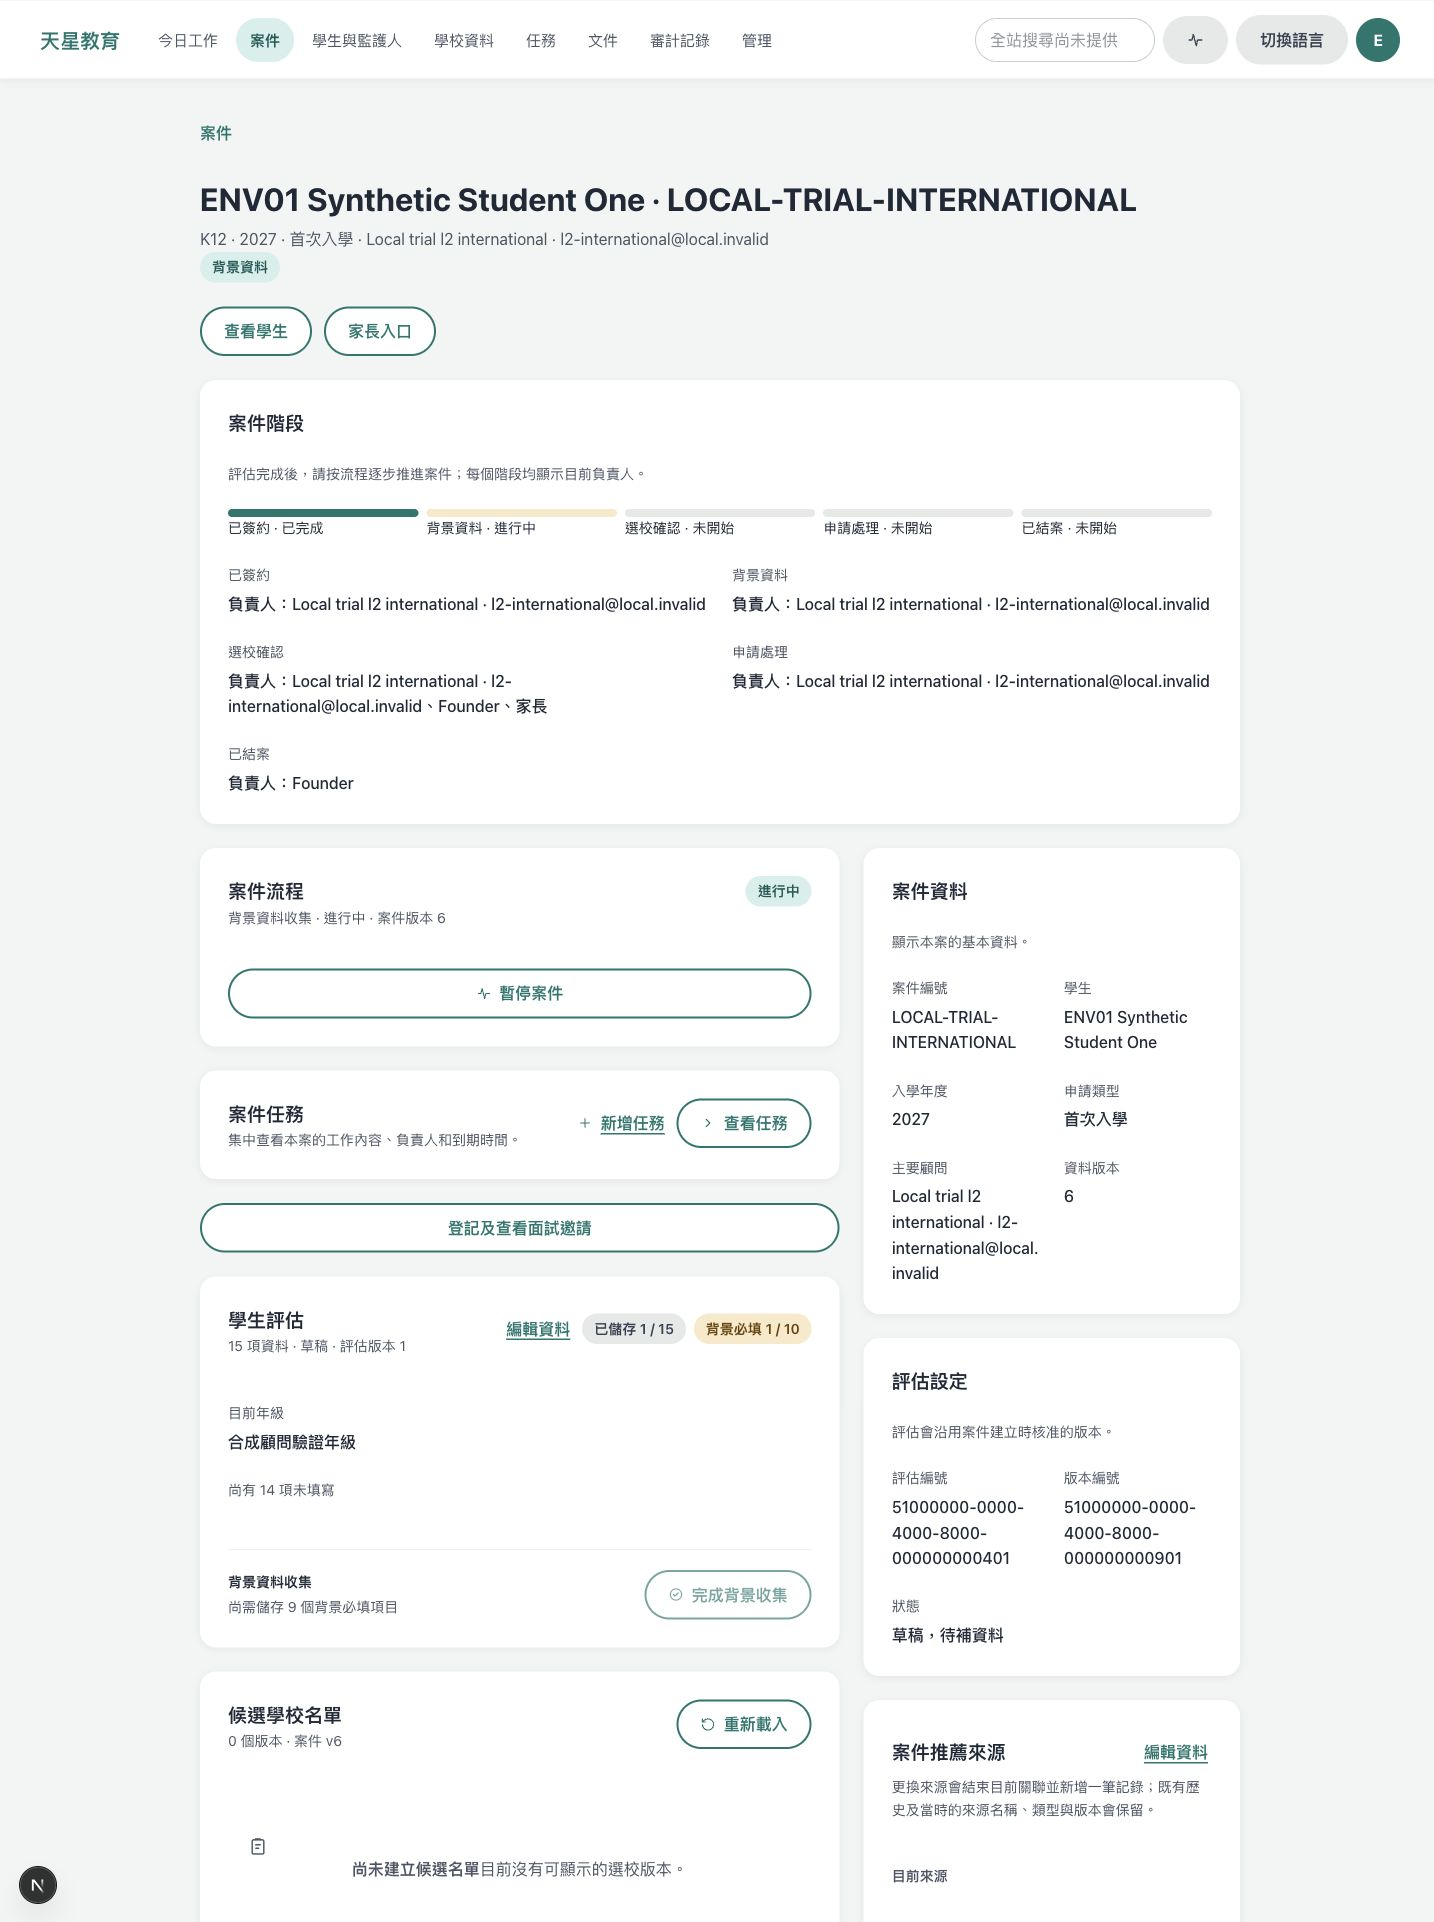
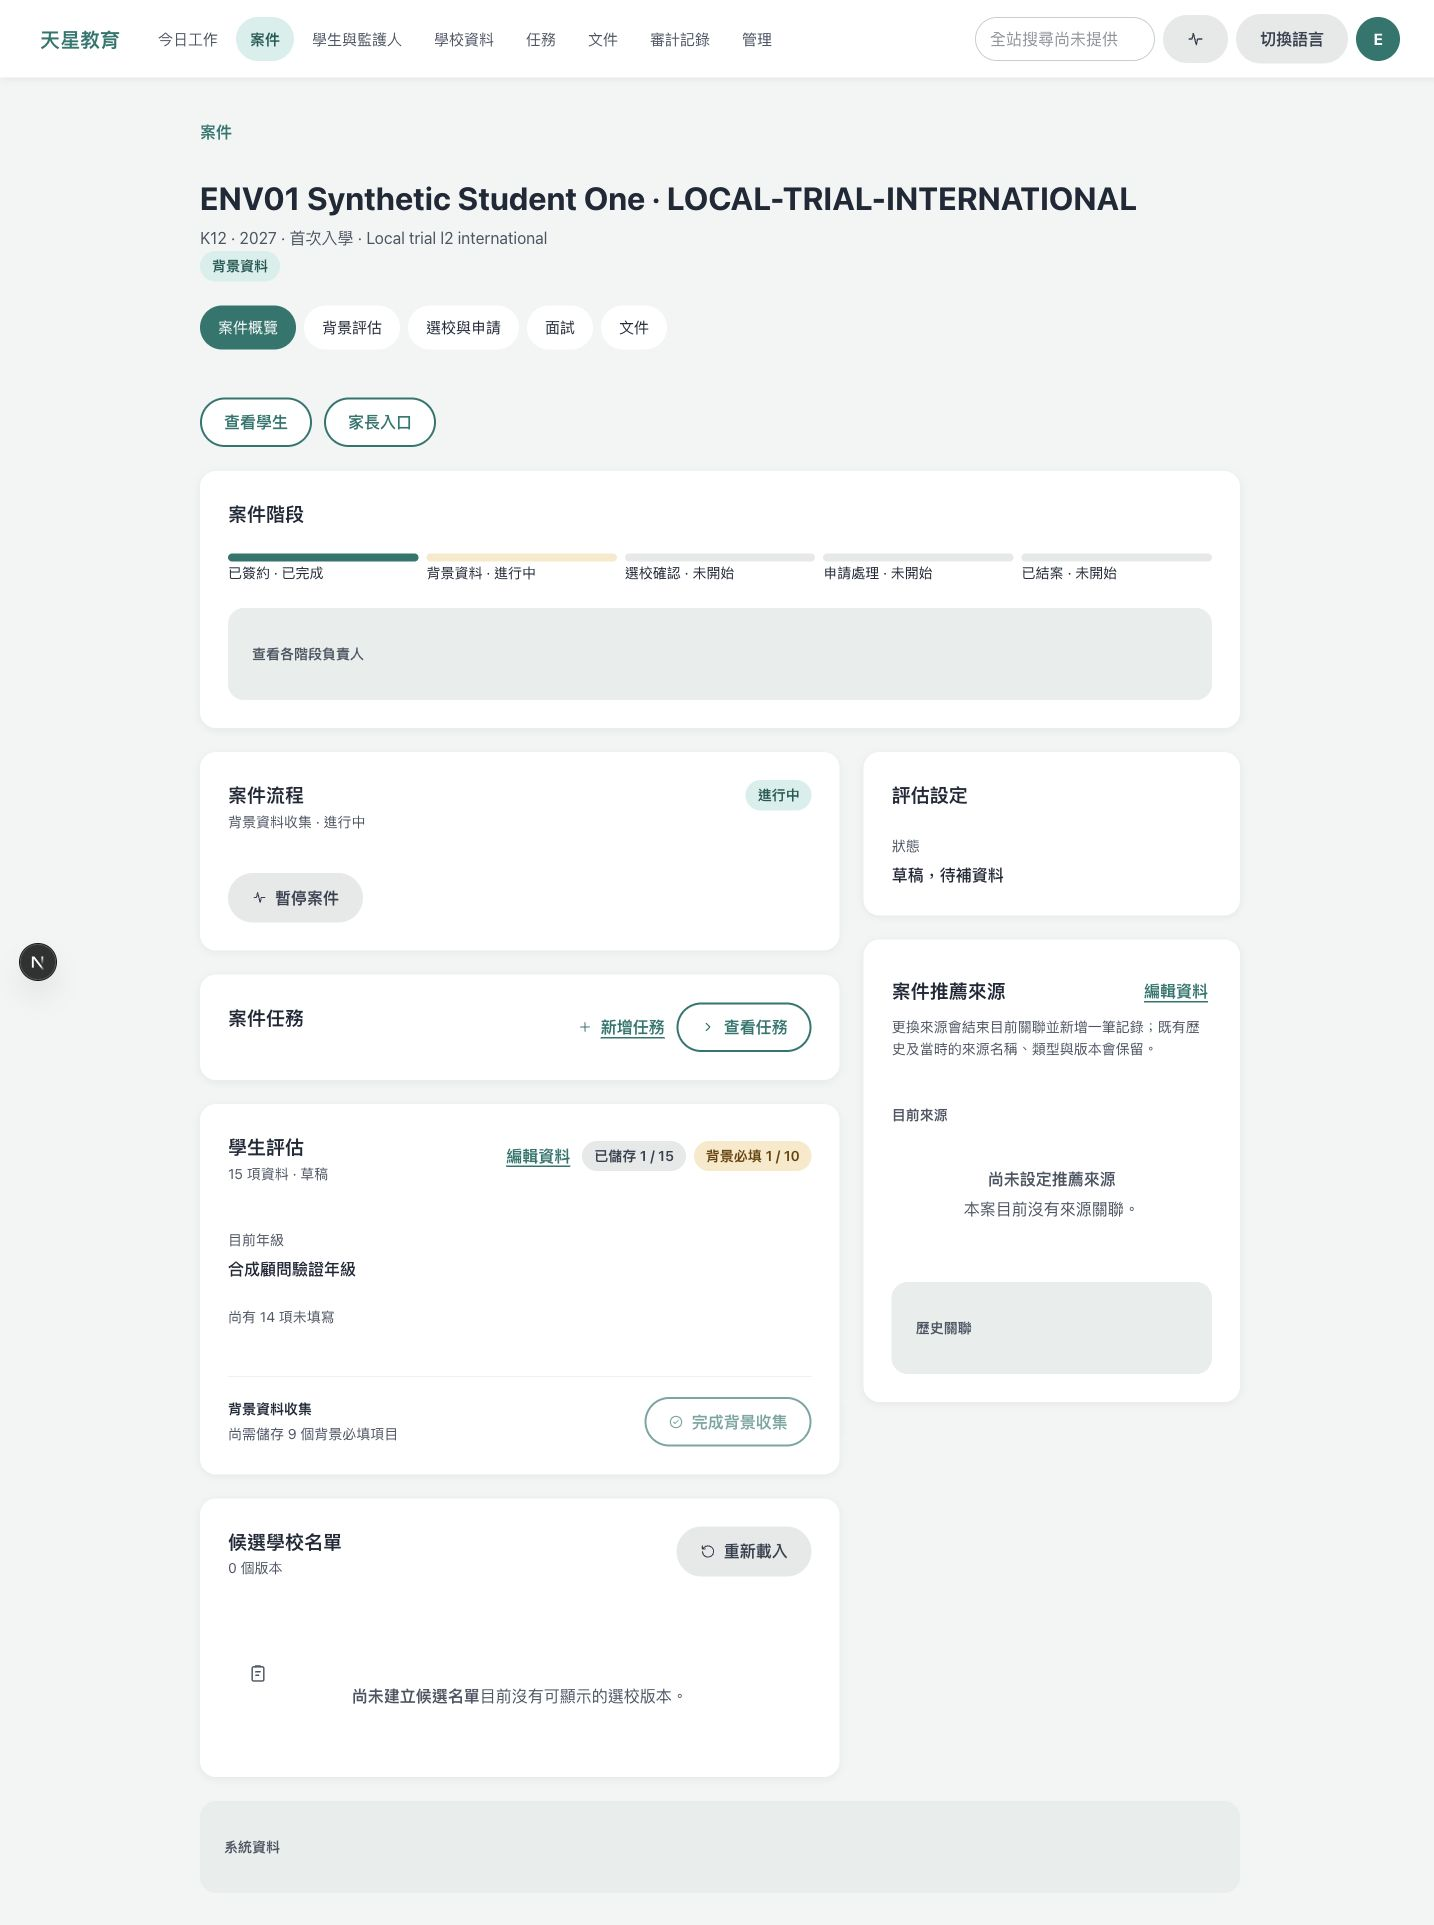
Record case page visual finishing and workflow diagnosis

diff --git a/current-state-analysis/ui-standard-case-pages.2026-11-16.zh-CN.md b/current-state-analysis/ui-standard-case-pages.2026-11-16.zh-CN.md
@@ -1,5 +1,7 @@
 # 案件列表与案件详情 UI 标准实施记录（2026-11-16）
 
+> 最新结果见第 8 节「视觉收尾」：本续票本地验证通过；以下第 1–7 节保留首次交付记录。
+
 案件列表、案件详情及其直接嵌入面板已采用共用 UI。两个本地账号均能搜索、筛选、阅读案件、编辑并保存评估、建立合成任务。**本票为部分完成，不能报整票本地验收通过**：案件工作区现有路由返回 404，没有可供换样式的运行中分页签；暂停／恢复实际生效，但提交后显示服务不可用；来源保存与候选名单操作因现有数据／流程条件不能完成。没有绕过权限、修改接口或补造业务数据来掩盖这些限制。
 
 ```text
@@ -171,3 +173,100 @@ lint 明确文件为：两个案件 page、AssessmentEditor、CandidateListWorks
 自己查看：打开 `http://localhost:3000/cases`，用上述本地账号登录；搜索合成学生，进入案件，点“學生評估”标题旁“編輯資料”，改目前年级并“儲存全部修改”；任务卡点“新增任務”可展开表单；来源卡能进入编辑但当前无来源可选。暂停／恢复有上述反馈异常，不作为已通过的操作推荐。
 
 没有合并、建 PR 或部署。未触碰非本地数据库、真实网站、真实资料、爬虫、LLM、构建与部署配置、依赖版本。一次性容器已清理，结束检查仅有 `tianxing-local-postgres-1` 和卷 `tianxing-local_tianxing_postgres_data`。临时转换脚本与测试日志清理后，本地应用保持运行。
+
+## 8. 视觉收尾（2026-11-16 续票）
+
+**本续票 status: pass（仅本地、仅本续票范围）。** 七项视觉收尾、故障诊断、获授权的纯前端修复、两个账号的五签跳转与暂停／恢复均已实际完成。前文首次交付的 `partial` 是历史记录：本节关闭其“分页签没有授权接缝”和“暂停／恢复误报”的停止点；不把来源保存、候选完整操作或旧 workspace 路由追认为通过。
+
+```text
+status: pass
+owner: frontend
+scope: 现有两仓库 codex/ui-standard-case-pages 分支；本地合成案件 UI 收尾与前端成功结果误判修复
+changed: 技术资料下沉、名称精简、负责人折叠、常规宽度按钮、五个直达分页签、去重、列表同排弱链接；补齐前端对既有 entry 值的识别
+evidence: 自动测试 145 通过／0 失败／0 跳过；类型检查及指定文件 lint 通过；双账号实点五签、暂停和恢复；重拍六张截图
+not_run: 非本地环境、完整业务验收、来源／候选保存、原 workspace 路由启用、全量测试、构建、部署
+risks_or_stop_conditions: 本票不改变子页授权；原家长入口、原 workspace 与其他未覆盖业务的限制仍有效
+```
+
+### 8.1 七项视觉结果
+
+| 要求 | 实际结果 | 证据 |
+| --- | --- | --- |
+| 技术信息退出主体 | 评估编号、版本编号、案件版本、资料版本、评估版本及全部 15 个字段的版本，集中在页底默认收起的“系統資料”。展开可看到实际值；编辑态主体不再出现“版本 vN”。版本仍由原组件持有并用于原请求和冲突判断，不清空、不重算 | 新增 `components/cases/CaseSystemData.tsx`；`AssessmentEditor.tsx`、`CaseStageControls.tsx`；浏览器展开见案件／资料版本 8，字段目前年级版本 2，其余未填字段版本 0 |
+| 人名精简 | 案件详情副标题和阶段负责人只显示既有名称，不附邮箱；原标签没有名称时退回邮箱。没有改服务器返回，也没有另造名称 | 新增 `case-person-name.ts` 与测试；页面及阶段组件调用。非本票重做的独立评估子页原副标题仍保留旧呈现 |
+| 阶段卡 | 分段进度保留；负责人收到弱化、默认收起的“查看各階段負責人”。展开后每个阶段仍对应原负责人 | `CaseStageTimeline.tsx`、阅读态截图 |
+| 常规按钮 | 暂停、恢复、完成背景收集、重新载入均不再横向撑满；暂停与重新载入用弱按钮。主体不再重复放面试链接 | 共用 `ui-fit`；阶段、评估、候选组件；桌面／手机截图 |
+| 五个分页签 | 案件概览、背景评估、选校与申请、面试、文件，分别直达原路由。采用普通导航链接和 `aria-current`（当前页面标识），不把导航当成授权。家长入口原条件保留，结案子页未改，均不加入五签 | 新增 `CasePageTabs.tsx`，共用 `RouteTabs`（路由分页签）；各子页、权限定义及 workspace 路由没有差异 |
+| 卡片去重与说明 | 学生、案件号、年度、申请类型和顾问都已在页头；技术版本下沉后“案件資料”没有剩余独有资料，因此整张空卡移除，不新造内容。评估设置保留真实状态。删去阶段卡、案件资料、评估设置、任务卡的纯说明；保留推荐来源等影响操作理解的提示 | 详情页与任务／阶段组件；阅读态截图 |
+| 列表弱链接 | “查看學生”紧邻学生名，用次要色下划线弱链接，不再另占一行；手机表格可在卡内横向滚动，整页无溢出 | `ui-name-links`（同排名称链接）使用不换行；浏览器测两链接上边坐标相差不足 1px，页面宽不超过 390 |
+
+系统资料采用呈现层的 React portal（把同一组件渲染的内容放到指定位置）：锁值仍归原组件，页底随当前值更新；并未增加业务数据存储。独立评估子页复用该组件时，其技术资料在评估卡之后默认收起，不需要改子路由。普通链接不绕过目标路由的服务端检查。
+
+新增中英文文案八项：系統資料／System information、查看各階段負責人／View stage owners、案件分區／Case sections、案件概覽／Case overview、背景評估／Background assessment、選校與申請／Selection and applications、面試／Interviews、文件／Documents。全部位于既有 `caseUi`（案件界面文案）命名空间；旧键含义不变。UI 标准同步登记案件收尾做法。
+
+### 8.2 故障的确切原因与修复边界
+
+**给负责人看的结论：服务器已经保存了暂停或恢复。页面随后重新取回案件时，读不懂“首次入学”这个系统本来就在使用的类别，于是把正确的案件资料当成坏资料，错误显示服务不可用。不是暂停未成功，也不是案件版本对不上。**
+
+| 链路 | 查明的事实 | 技术证据 |
+| --- | --- | --- |
+| 保存回执 | 暂停／恢复仍返回案件编号与新版本；这个回执未改 | `app/api/v1/cases/[caseId]/workflow-actions/route.ts` 返回 `{ id, record_version }` |
+| 重新读取 | 修复前对当前本地合成案件实际读取，HTTP 200，返回 `admissionType: "entry"`（首次入学）；调用前端 `getCase` 后却得到 `MALFORMED_RESPONSE`（响应格式误判） | 本次仅本地 HTTP 诊断；`modules/cases/client.ts` 的 `getCase`、`decodeCaseWorkspaceDetail`、`decodeCaseWorkspaceListItem` |
+| 误判位置 | `ADMISSION_TYPES`（入学类别识别表）只有 `s1_admission`（S1 入学）、`transfer`（插班），遗漏已有 `entry`。读取解码在 `oneOf` 校验时报错，通用客户端包装为格式错误；阶段组件随后把它归入“服务暂不可用” | `modules/cases/client.ts:57`；`lib/api/client.ts` 的 decoder 错误分支；`CaseStageControls.tsx` 的 catch |
+| 是否到达版本比对 | 没有：`await getCase` 已抛错，回执与权威数据的 id／版本比对尚未运行 | 阶段组件的执行顺序；新增回归测试先成功得到回执，再在修复前读取时报错 |
+| 为什么原始详情能显示 | 详情服务器页面直接读取服务端案件，不经过这份前端解码表；而暂停／恢复后的刷新走前端 `getCase` | 详情 page 与阶段组件调用差异 |
+| 最小修复 | 识别表增加已存在的 `entry`；保留其余严格字段、未知值、编号、版本检查。没有改请求体、响应体、服务端授权、状态转换、数据库或错误吞掉逻辑 | `modules/cases/client.ts` 本续票仅一行差异 |
+
+这张识别表同时用于前端类型与旧建案客户端输入校验，因此它们现在也能识别服务端原本就支持的 `entry`；这不是新增入学类别或修改接口含义。正式建案页此前已通过自己的现有适配读取和提交该值。本次没有重新执行建案全流程，也不把这点称为建案新功能验收。
+
+**在 `5ef5a40` 已存在：**本次使用 `git show 5ef5a40:<文件>` 比较，确认前端客户端、案件读取路由、暂停／恢复路由、PostgreSQL 案件读取实现，与本续票修改前逐字一致；修改后客户端唯一差异就是识别表补 `entry`。新增“暂停回执成功 → 读取 entry 案件 → 核对编号与版本”的测试，在修复前实际为 7 通过、1 失败，错误为响应格式误判；修复后通过。结合旧版同一代码及本地真实返回值，可确认这是原有缺陷，不是上票换外观引入。**未启动一套旧版服务器或回滚当前数据库；历史确认是逐字代码对照加同一解码路径的失败复现，不冒充旧版完整浏览器验收。**
+
+修复遵循 BR-031（案件暂停与恢复），不修改它的允许条件和阶段语义。
+
+### 8.3 双账号五签与暂停／恢复实操
+
+仍用前文同一合成案件。Founder 与顾问分别从详情中的五个实际链接点击进入，再用浏览器返回；不是仅输入目标网址。
+
+| 分页签／动作 | Founder 实际结果 | 顾问实际结果 |
+| --- | --- | --- |
+| 案件概览 | 返回本案件详情，当前签为概览 | 同左 |
+| 背景评估 | 打开既有 assessment 子页，显示已存合成年级和 1/15 进度 | 同左 |
+| 选校与申请 | 打开 applications，显示“目前沒有可顯示的申請目標” | 同左 |
+| 面试 | 打开 interviews，显示当前没有可登记面试的已提交申请／只读说明 | 同左 |
+| 文件 | 打开 documents，加载完成后显示登记表单及“本案目前沒有文件” | 同左 |
+| 暂停一次 | 填本地合成原因，直接显示“案件已暫停，內容已重新載入。”，按钮变恢复 | 同左，另一次本地合成原因 |
+| 恢复一次 | 直接显示“案件已恢復，內容已重新載入。”，回到进行中和暂停按钮 | 同左；最终案件恢复进行中 |
+
+Founder 完成后版本从 6 到 8，顾问完成后从 8 到 10；没有重建任务或改变里程碑。展开系统资料可以核对锁版本；折叠后主体不显示。没有新的无权账号授权试验；权限代码未改，不据本次有权账号点击推断其他人能进入。
+
+### 8.4 重拍截图与测试
+
+本次替换第 4 节中列表、详情阅读态、详情编辑态的六张 JPEG，路径不变；空状态与未重做面试页两组仍保留首票截图。浏览器工具格式限制仍如第 4 节所述。拍摄视口分别为 1440×1000、390×844；文档宽均未超过视口，手机宽表只在卡内滚动。实际检查编辑区没有“评估版本”或“版本 vN”，系统资料与负责人块默认关闭。
+
+| 检查 | 本续票实际结果 |
+| --- | --- |
+| 前文案件／工作区／任务／两个接口契约测试的同一命令（含新增测试） | 111 通过、0 失败、0 跳过 |
+| `node --test tests/unit/ui/standard.test.ts` | 7 通过、0 失败、0 跳过 |
+| `pnpm test:architecture` | 25 通过、0 失败、0 跳过 |
+| `pnpm test:one-role-baseline-postgresql` | 2 通过、0 失败、0 跳过；一次性本地容器清理 |
+| `pnpm typecheck` | 退出码 0 |
+| 指定 15 个 TS／TSX 文件的 `pnpm exec eslint` | 退出码 0，无警告 |
+
+合计 **145 项通过、0 失败、0 跳过**。新增测试为：首次入学案件成功回执后可正常读取（1 项）；名称与邮箱显示回退（1 项，含无名、无邮箱、名称自带分隔符等断言）；分页签目标及唯一当前页标识（1 项）。没有删改旧断言以掩盖失败。
+
+lint 文件为两个案件 page，AssessmentEditor、CandidateListWorkspace、CaseStageControls、CaseStageTimeline、CasePageTabs、CaseSystemData、case-person-name、CaseTasksPanel、standard.tsx、modules/cases/client.ts、case-person-name.test.ts、case-workspace-client.test.ts、standard.test.ts。
+
+收尾重新登录时曾一次显示“登入服務暫時不可用”，检查本地数据库健康后同账号重试成功；原因未能确认，没有改认证。最终 Founder 已登录案件列表，应用可点击。该偶发登录现象不等同已经修复的案件读取误判。
+
+### 8.5 本续票文件与边界
+
+新增 4 个应用文件：
+
+- `components/cases/CasePageTabs.tsx`
+- `components/cases/CaseSystemData.tsx`
+- `components/cases/case-person-name.ts`
+- `tests/unit/cases/case-person-name.test.ts`
+
+修改 15 个应用文件：两个案件 page；AssessmentEditor、CandidateListWorkspace、CaseStageControls、CaseStageTimeline、CaseTasksPanel；共用 standard.tsx／standard.css；中英文 i18n；modules/cases/client.ts；case-workspace-client.test.ts、standard.test.ts；UI_STANDARD.md。对应完整目录沿用第 7 节。
+
+文档仅修改本报告和六张原路径截图。没有改变三个仓库的业务需求、子页面路由、权限、数据库、认证机制、工作区开关或阶段规则。没有新依赖，没有接触 Neon 文件、非本地环境、真实资料或真实网站。未建 PR、未合并、未部署；`AGENTS.md` 和应用原稿文件夹仍未提交。测试临时日志清理，结束仅保留本地数据库容器及其原数据卷。
